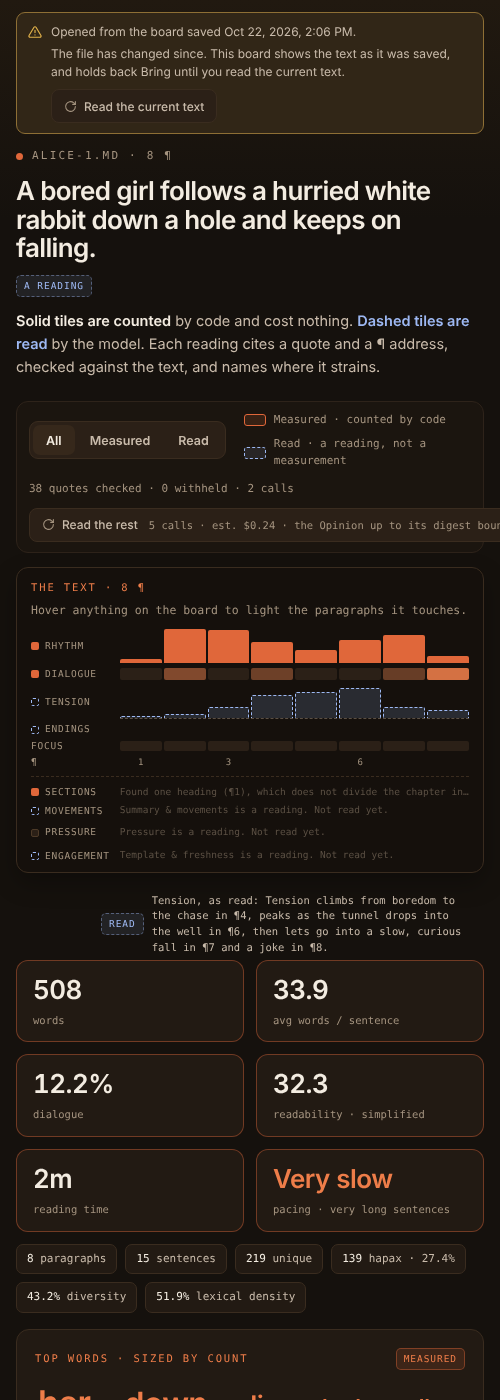
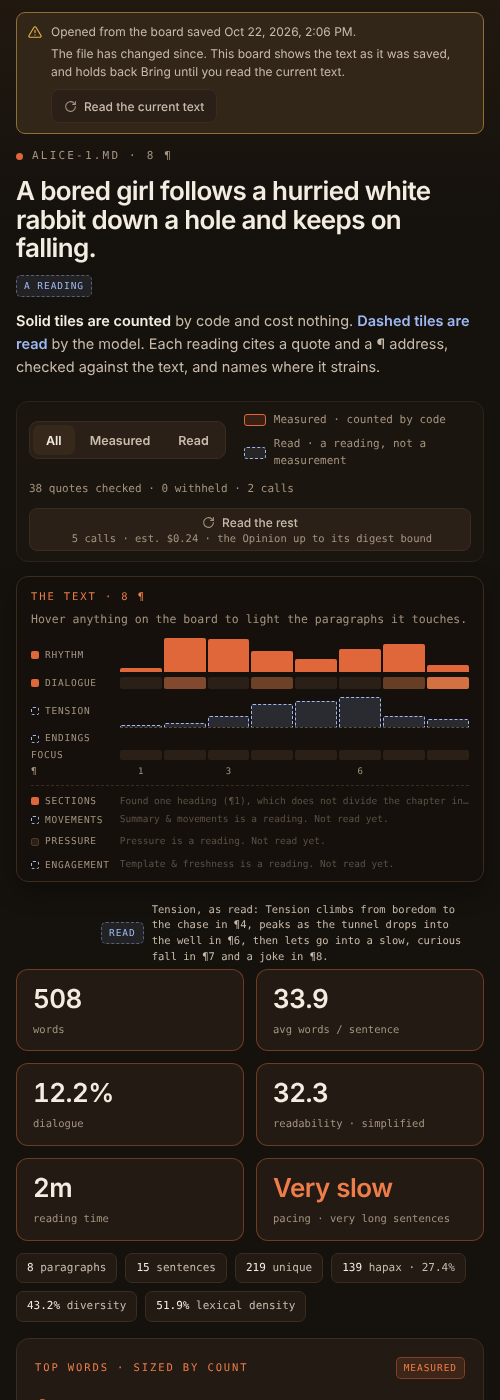
docs(evidence): Slice 5A.1 evidence fails on a clipped button, re-rendered after PR #164's corrections
The harness now records every button whose right edge runs past the box
that clips it, and fails on any (the review's 500 px capture). Re-rendered
from the bundle a clean build writes at this head (webview.js
66c1f405...): 18 captures, errors.txt empty. changed-board and spark at
500 px changed: "Read the rest" now wraps its cost inside the card. The
host states, rebuilt from the corrected code, are byte-identical to the
committed ones.

Against the reviewed head's bundle (ada5717, 427e81f8...) the harness
writes 2 errors, that button clipped in changed-board and changed-rail at
500 px; against 3e5c3a1's, 53 (51 before, and the same two). So the
clipping predates this slice. One or two captures can differ by a few
pixels between renders (a hover or scrollbar tint); the README says so.

Claude-Session: https://claude.ai/code/session_01CRnGdHJgFoUnvNrhrLAp6f

diff --git a/docs/pr-reviews/evidence/lightbox-slice-5a1-visual/harness.js b/docs/pr-reviews/evidence/lightbox-slice-5a1-visual/harness.js
@@ -288,6 +288,15 @@ const facts = () => {
     notice: clean(panel?.querySelector('.pm-lb-boards-notice')?.textContent),
     setAside: clean(document.querySelector('.pm-lb-spark-set-aside')?.textContent),
     horizontalOverflow: document.documentElement.scrollWidth > window.innerWidth,
+    // A button whose right edge runs past the box that clips it (PR #164 review: the press's cost at 500 px).
+    clippedButtons: [...document.querySelectorAll('button')].filter((button) => {
+      const box = button.getBoundingClientRect();
+      if (box.width === 0 || box.height === 0) { return false; }
+      let clip = button.parentElement;
+      while (clip && clip !== document.body && getComputedStyle(clip).overflowX === 'visible') { clip = clip.parentElement; }
+      const right = clip && clip !== document.body ? clip.getBoundingClientRect().right : window.innerWidth;
+      return box.right > right + 0.5;
+    }).map((button) => clean(button.textContent)),
     posted: window.__pmPosted
       .filter((m) => ['lightbox_request_boards', 'lightbox_open_board', 'lightbox_rename_board', 'lightbox_refresh_source'].includes(m.type))
       .map((m) => `${m.type} ${JSON.stringify(m.payload)}`),
@@ -321,6 +330,7 @@ const faults = (seen, expect) => {
   if (!seen.posted.some((line) => line.startsWith('lightbox_request_boards '))) { out.push('never asked for its shelf'); }
   if (seen.notice) { out.push(`a notice: "${seen.notice}"`); }
   if (seen.horizontalOverflow) { out.push('horizontal overflow'); }
+  if (seen.clippedButtons.length > 0) { out.push(`clipped buttons: ${JSON.stringify(seen.clippedButtons)}`); }
   if (seen.savedStateNamesAFile) { out.push('a saved webview state names a board file'); }
   if (seen.savedStateHoldsAName) { out.push('a saved webview state holds a board\'s name'); }
   return out;

diff --git a/docs/pr-reviews/evidence/lightbox-slice-5a1-visual/README.md b/docs/pr-reviews/evidence/lightbox-slice-5a1-visual/README.md
@@ -25,7 +25,7 @@ which is unchanged.
 | `states/boards.json` | The host's messages and answers for each state: the board a mount gets, the shelf the rail's mount request gets, each board's shelf, the estimate, and the host's answer to the Open in `changed` (the opened board, then its shelf) |
 | `states/log.txt` | Every line the host logged while the states were made |
 | `harness.js` | Renders a built `webview.js` as the Lightbox behind a stubbed VS Code API, replays each state's messages, answers the tab's own requests with the host's recorded answers (echoing each request's id), acts as the writer would, takes each screenshot once two consecutive frames match, and writes `facts.json` and `errors.txt`. It exits 1 when any state is wrong |
-| `facts.json` | What each state's page showed, read from the DOM: the Boards section's head (the board's name, its action and note), its rows as text, each row's model tooltip, which row is on screen, the rail's snapshot note, the notice above the board and whether it is first in the board's column, the name field (its label, value and focus), the Spark lane's set-aside line, the rail's requests, horizontal overflow, and whether any saved webview state named a board file or held a board's name |
+| `facts.json` | What each state's page showed, read from the DOM: the Boards section's head (the board's name, its action and note), its rows as text, each row's model tooltip, which row is on screen, the rail's snapshot note, the notice above the board and whether it is first in the board's column, the name field (its label, value and focus), the Spark lane's set-aside line, the rail's requests, horizontal overflow, every button that runs past the box that clips it (PR #164's review), and whether any saved webview state named a board file or held a board's name |
 | `errors.txt` | Every page error, console error, and failed expectation, one per line. It is empty for this run |
 | `tools/build-boards.test.ts` | How `states/` was made |
 
@@ -114,34 +114,54 @@ saved at 14:05:09.123Z and one minute apart after that.
 ## Results
 
 From the committed `facts.json`, rendered from the bundle a clean
-`npm run build` writes at this branch's code (`webview.js` SHA-256
[1 lines of base64/hex data omitted]
+`npm run build` writes at this branch's code after PR #164's corrections
+(`webview.js` SHA-256
[1 lines of base64/hex data omitted]
+The states in `states/` were built again from the corrected host and are
+byte-identical to the ones committed before the review.
 
 | State | What the page shows (the same at 1440, 1000 and 500 px) |
 |---|---|
 | `named` | "3 saved"; head "3.2.1 - after the cut - model B" with Rename; rows named, with "Read by model-v1 and model-b" and "Read by model-v1"; the measured row unnamed with no model line |
 | `rename-open` | The 2:06 PM row's field, focused, labelled for its board, holding the typed name; no rename posted |
-| `changed-board` | The amber notice first in the board's column, with Read the current text; the rail's note in the same words |
+| `changed-board` | The amber notice first in the board's column, with Read the current text; the rail's note in the same words; at 500 px, "Read the rest" with its cost wrapped under it, inside the card |
 | `changed-rail` | The same, at the rail: 2:06 PM On screen; head "3.2.1 - before the cut - model A" |
 | `spark` | "1 spark set aside. Undo Brings back “The empty jar”."; still "3 saved"; the quiet note of a restored board; its name in the head |
 | `session-named` | "this session"; head named, "A name lasts as long as this session, as the board does."; no rows |
 
 Across all 18 captures:
 - no horizontal overflow;
+- no button runs past the box that clips it;
 - no saved webview state named a board file or held a board's name (8 to
   10 states saved per capture);
 - no page error;
 - `errors.txt` is empty.
 
-A second render gave all 18 PNGs byte-identical.
+**PR #164's review** noted that "Read the rest" and its cost ran past the
+board's card in the 500 px `changed-board` capture. The new clipping check
+found the same button clipped at `3e5c3a1`, so this slice did not cause
+it. The press's button now wraps its cost under its label. Against this
+review's head (`ada5717`, `webview.js` `427e81f8…ffaa`), the harness
+writes 2 errors (`changed-board@500` and `changed-rail@500`: that button
+clipped) and exits 1.
+
+Two captures changed with that fix: `changed-board` and `spark` at 500 px.
+A second and a third render at this head gave the same pages. One or two
+PNGs differed by a few pixels from render to render: a card's edge in
+`rename-open` at 1000 px, a button's tint in `changed-rail` at 1440 px.
+These are hover and scrollbar tints the screenshot catches mid-fade; the
+DOM facts and `errors.txt` agreed in every render.
 
 **The harness fails rather than skips.** Against the base bundle
 (`epic/lightbox` at `3e5c3a1`, built from an export of that commit whose
-`node_modules` is a link to this worktree's; `71fc8bdb…04c2`), it wrote 51
-errors and exited 1: the head was missing in all six states, every row
-read as unnamed with no model line in the five with rows, the rename field
-could not be opened (`rename-open`), and there was no notice above the
-board (`changed-board`, `changed-rail`).
+`node_modules` is a link to this worktree's; `71fc8bdb…04c2`), it wrote 53
+errors and exited 1 with the clipping check (51 before it):
+- the head was missing in all six states;
+- every row read as unnamed with no model line, in the five states with
+  rows;
+- the rename field could not be opened (`rename-open`);
+- there was no notice above the board (`changed-board`, `changed-rail`);
+- "Read the rest" was clipped at 500 px.
 
 **Bundle provenance.** `npm ci` into the worktree's own `node_modules`, a
 real directory, not a symlink: webpack's production module ids come from
